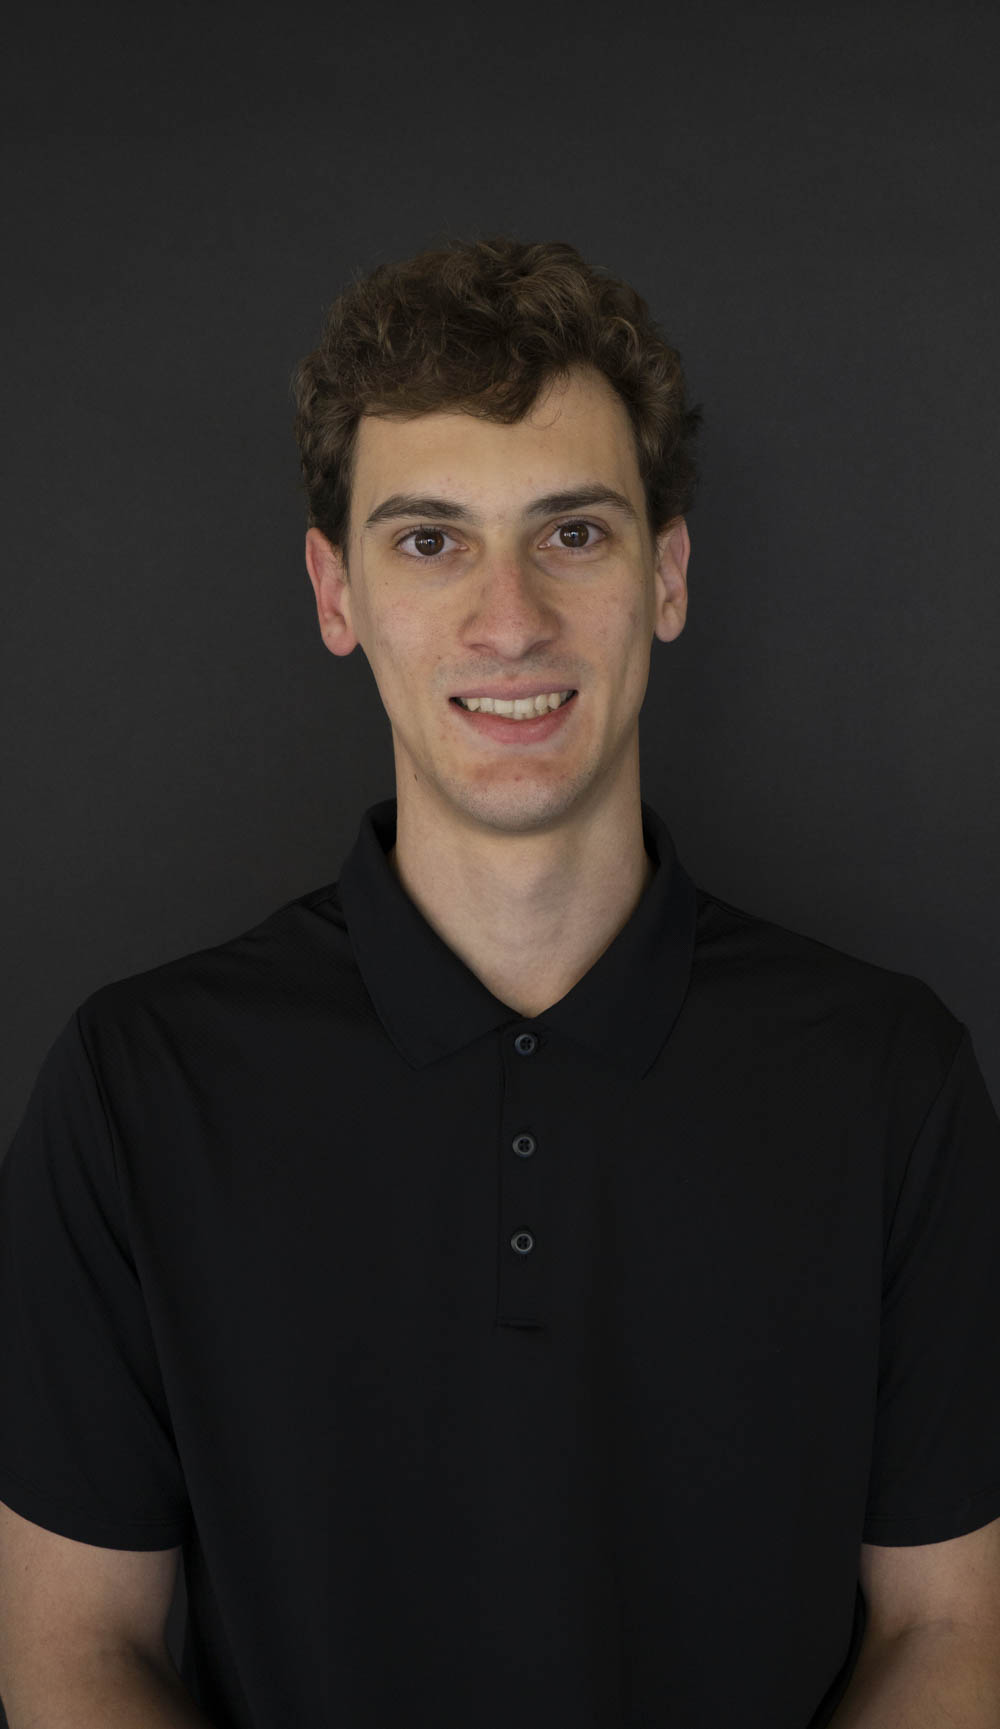
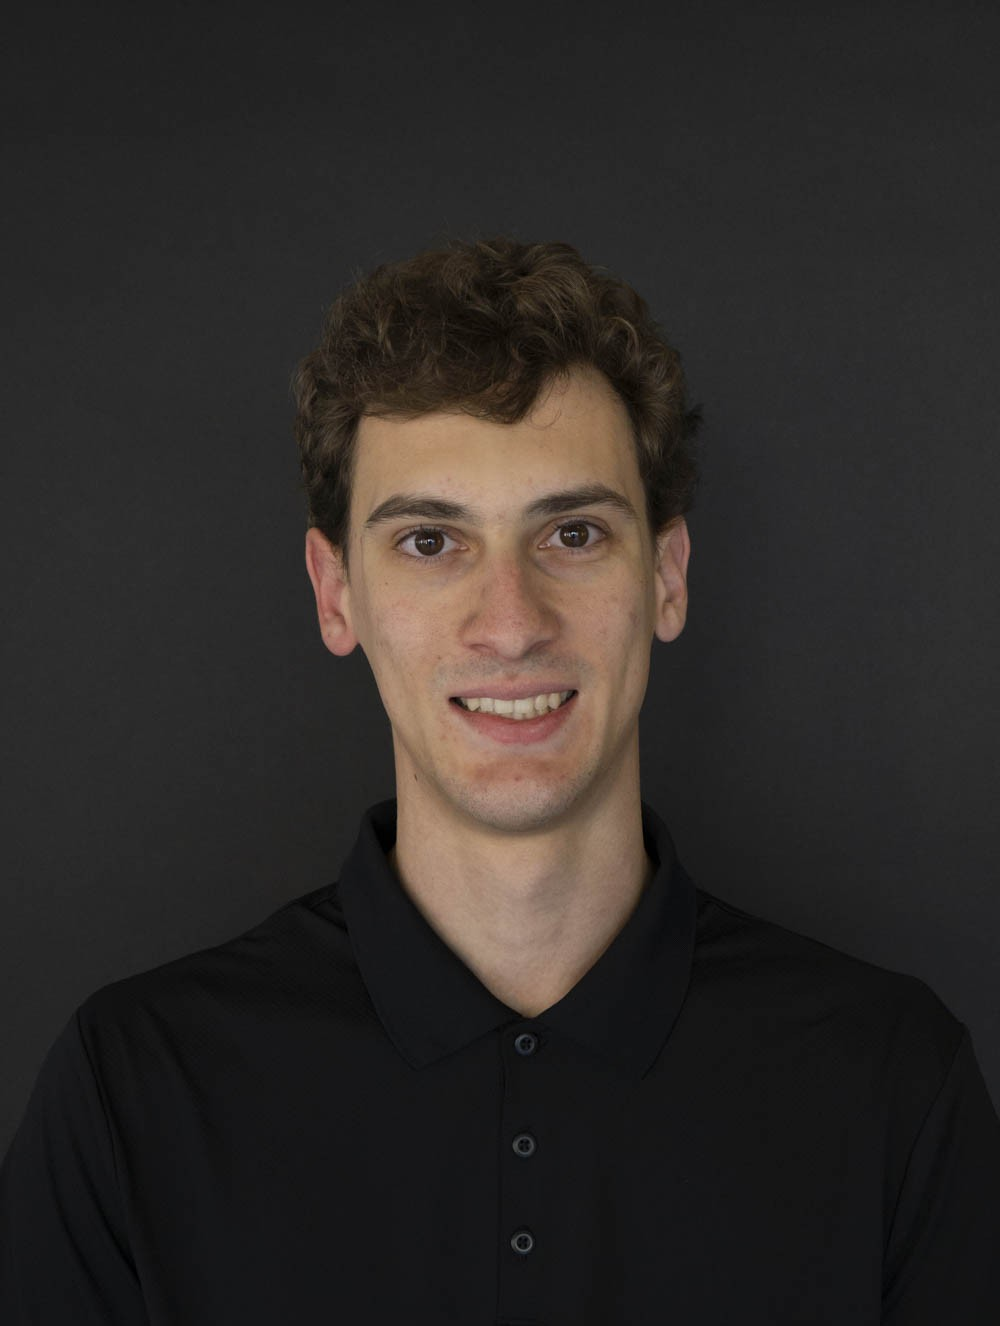
headshot cropped

diff --git a/docs/index.html b/docs/index.html
@@ -151,7 +151,7 @@ ul.task-list li input[type="checkbox"] {
 <li><p><strong>Other</strong>: Sports analytics certificate</p></li>
 </ul>
 <p>Explore this webpage to learn more about me and what data analytics project I have completed.</p>
-<p><img src="./Pics/headshot.jpeg" class="img-fluid" width="400"></p>
+<p><img src="./Pics/headshot.jpeg" class="img-fluid" width="300"></p>
 
 
 
